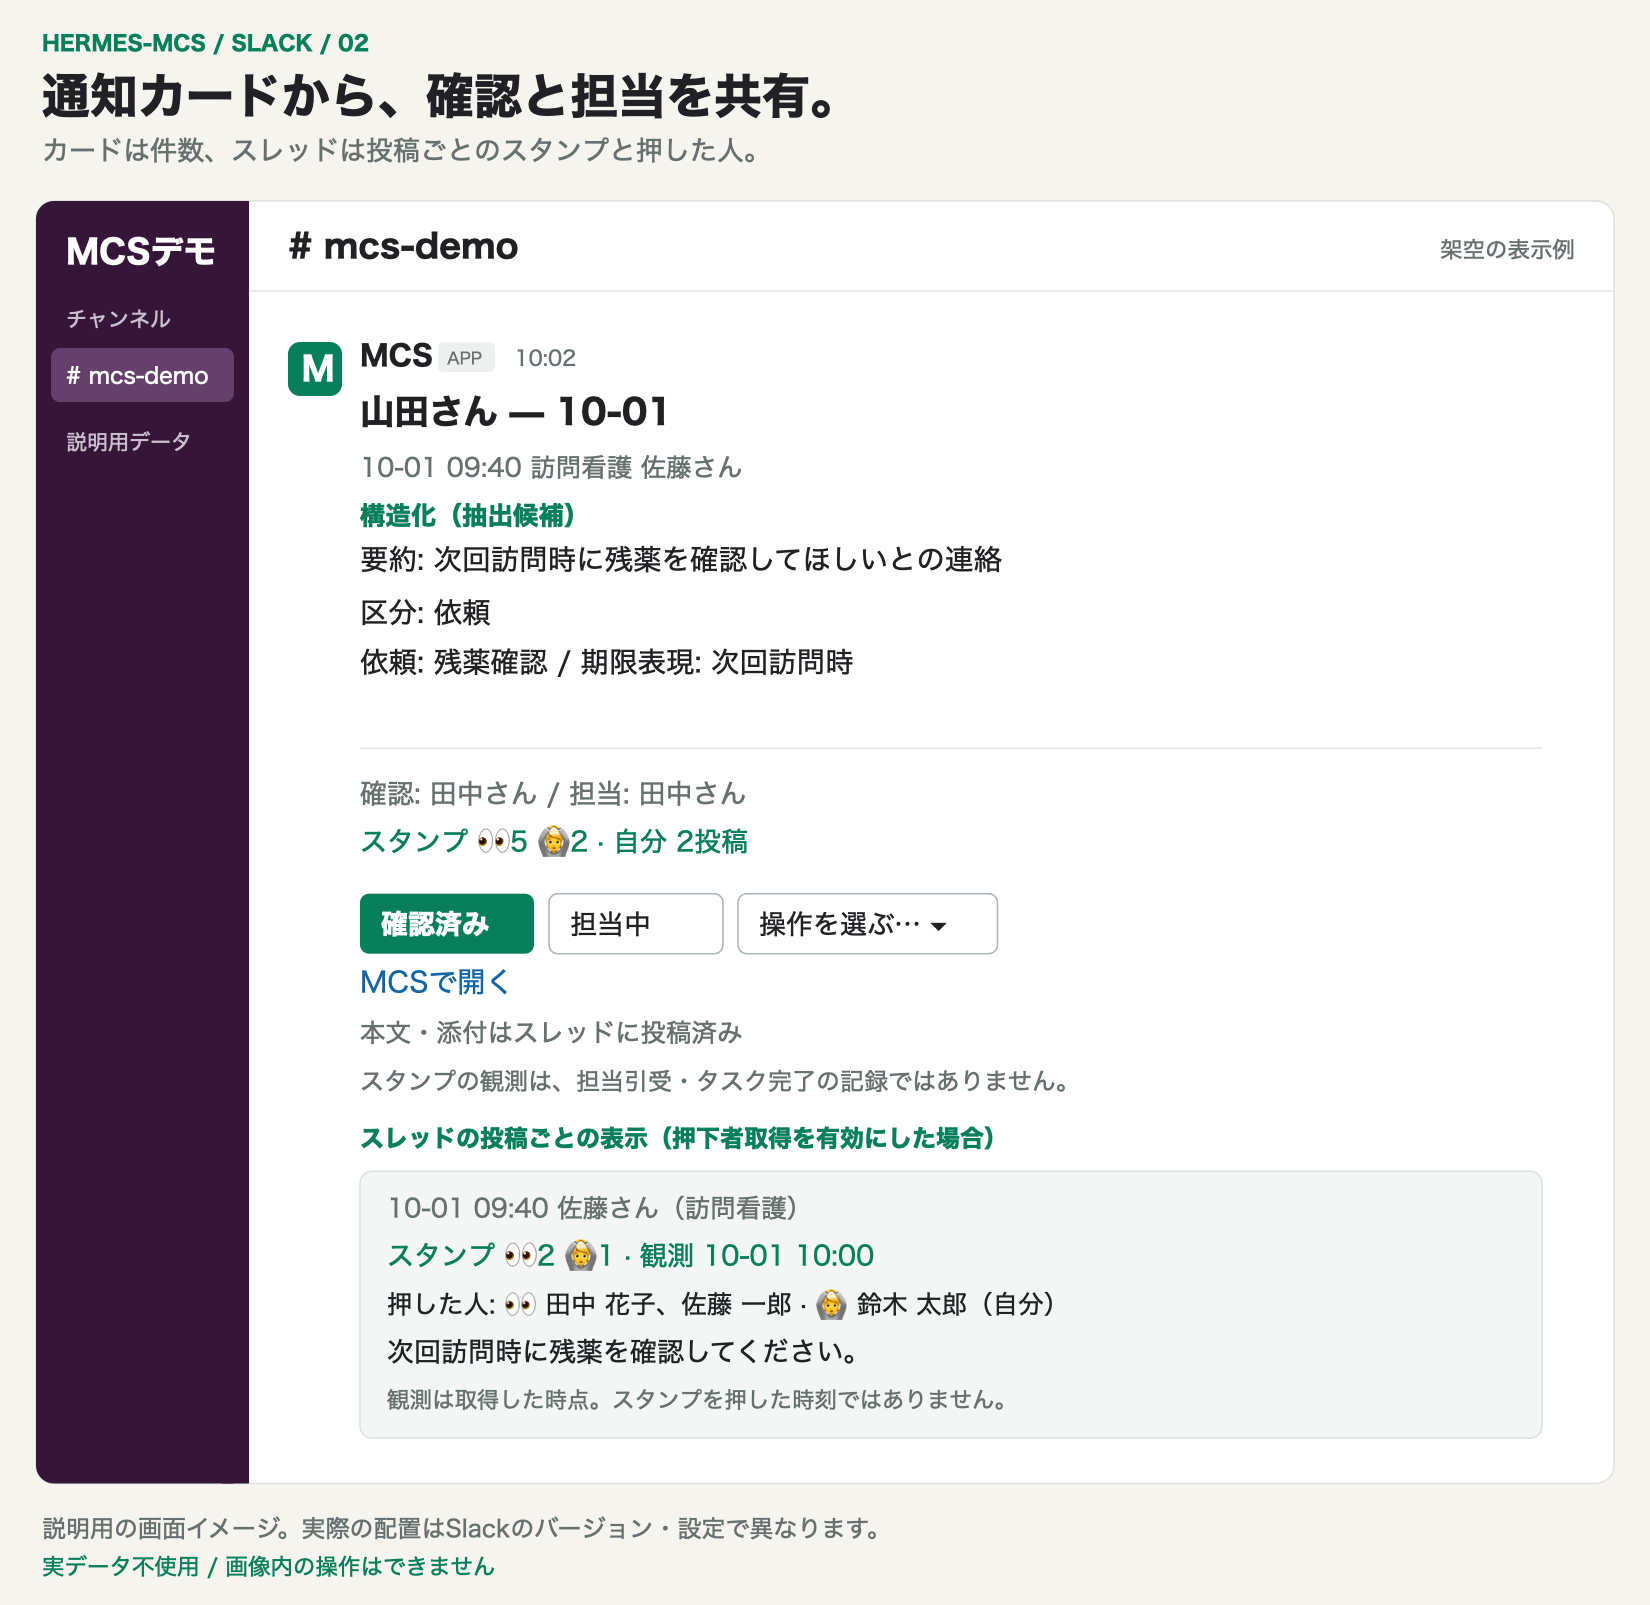
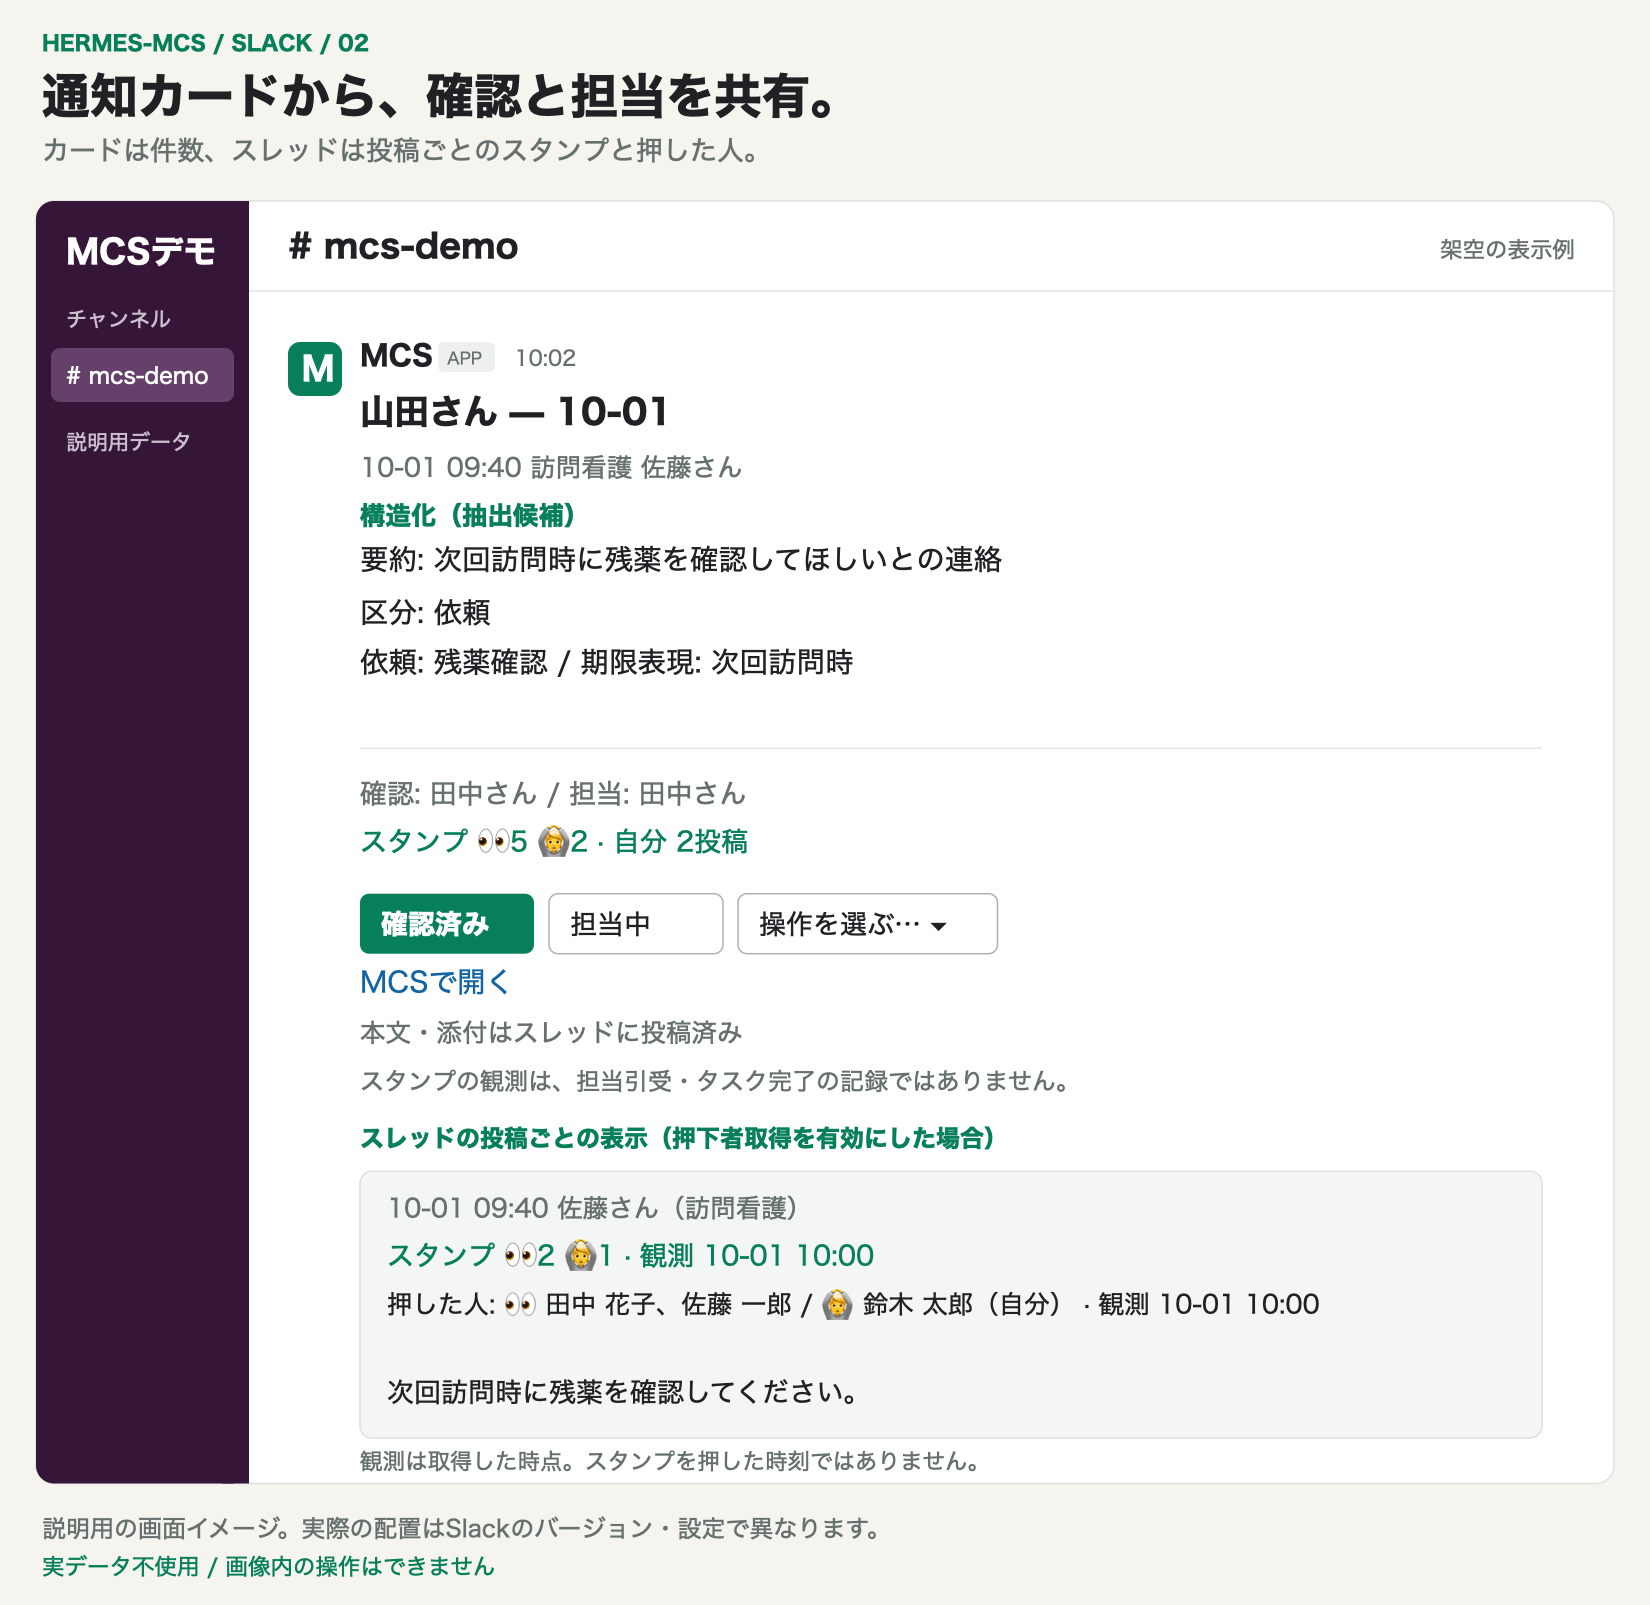
スタンプ氏名の画面例を通知本文の表示形式に整合

Changed region(s): [[0.2164, 0.7788, 0.7109, 0.9346], [0.3709, 0.9034, 0.5873, 0.9346], [0.7727, 0.81, 0.8036, 0.8411]]

diff --git a/scripts/development/generate_slack_gallery.py b/scripts/development/generate_slack_gallery.py
@@ -158,9 +158,9 @@ def notification():
     s.rect(x, y + 290, 788, 178, "#f3f6f4", 8, "#dce2dd")
     s.text(x + 18, y + 321, "10-01 09:40 佐藤さん（訪問看護）", 17, MUTED)
     s.text(x + 18, y + 353, "スタンプ 👀2 🙆1 · 観測 10-01 10:00", 18, GREEN)
-    s.text(x + 18, y + 385, "押した人: 👀 田中 花子、佐藤 一郎 · 🙆 鈴木 太郎（自分）", 17)
-    s.text(x + 18, y + 417, "次回訪問時に残薬を確認してください。", 18)
-    s.text(x + 18, y + 448, "観測は取得した時点。スタンプを押した時刻ではありません。", 15, MUTED)
+    s.paragraph(x + 18, y + 385, "押した人: 👀 田中 花子、佐藤 一郎 / 🙆 鈴木 太郎（自分） · 観測 10-01 10:00", 752, 17)
+    s.text(x + 18, y + 444, "次回訪問時に残薬を確認してください。", 18)
+    s.text(x, y + 489, "観測は取得した時点。スタンプを押した時刻ではありません。", 15, MUTED)
     return s.finish()
 
 

diff --git a/scripts/development/generate_lineworks_gallery.py b/scripts/development/generate_lineworks_gallery.py
@@ -86,8 +86,7 @@ def delivery():
     s.text(626, 386, "構造化（抽出候補）", 17, GREEN, True)
     s.text(626, 417, "依頼: 次回訪問時に残薬確認", 16)
     s.text(626, 451, "スタンプ 👀2 🙆1 · 観測 10-01 10:00", 15, GREEN)
-    s.text(626, 484, "押した人: 👀 田中 花子、佐藤 一郎", 15)
-    s.text(626, 512, "🙆 鈴木 太郎（自分）", 15)
+    s.paragraph(626, 484, "押した人: 👀 田中 花子、佐藤 一郎 / 🙆 鈴木 太郎（自分） · 観測 10-01 10:00", 390, 15)
     s.paragraph(626, 550, "本文: 次回訪問時に残薬を確認してください。", 390, 17)
     s.text(626, 615, "押下者取得を有効にした場合の表示例", 14, MUTED)
     s.bot(588, 660)
